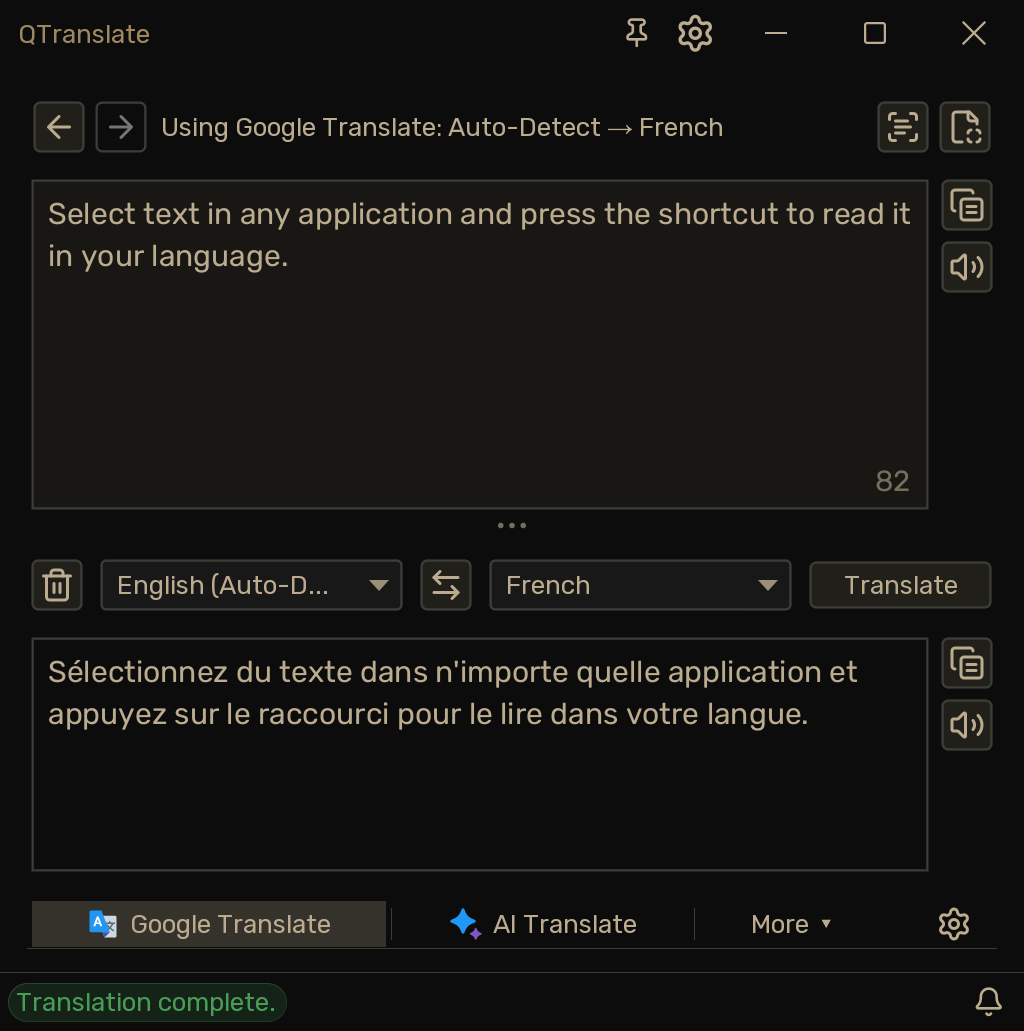
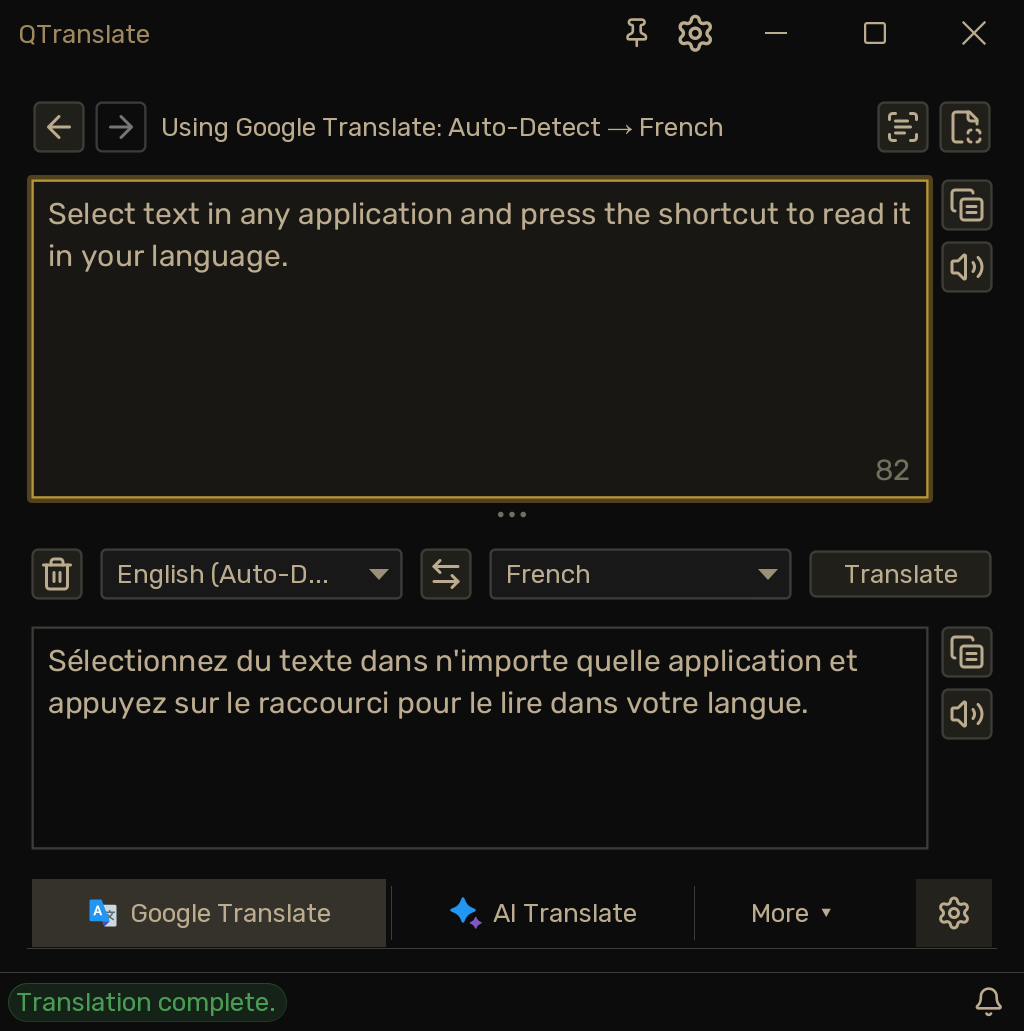
Add breathing room to Classic selector tabs

diff --git a/ui-swing/src/main/kotlin/com/github/ahatem/qtranslate/ui/swing/main/selector/TranslatorSelector.kt b/ui-swing/src/main/kotlin/com/github/ahatem/qtranslate/ui/swing/main/selector/TranslatorSelector.kt
@@ -197,7 +197,7 @@ class TranslatorSelector(
     private fun loadIcon(service: ServiceInfo): Icon? = service.iconPath?.let { iconManager.getIcon(service.id, it, ICON_SIZE, ICON_SIZE) }
 
     private fun compactButtonMargin() = Insets(
-        UIScale.scale(1), UIScale.scale(4), UIScale.scale(1), UIScale.scale(4)
+        UIScale.scale(3), UIScale.scale(4), UIScale.scale(3), UIScale.scale(4)
     )
 
     /** Share spare width between whole tabs; never shrink a label to fill an arbitrary cell. */
